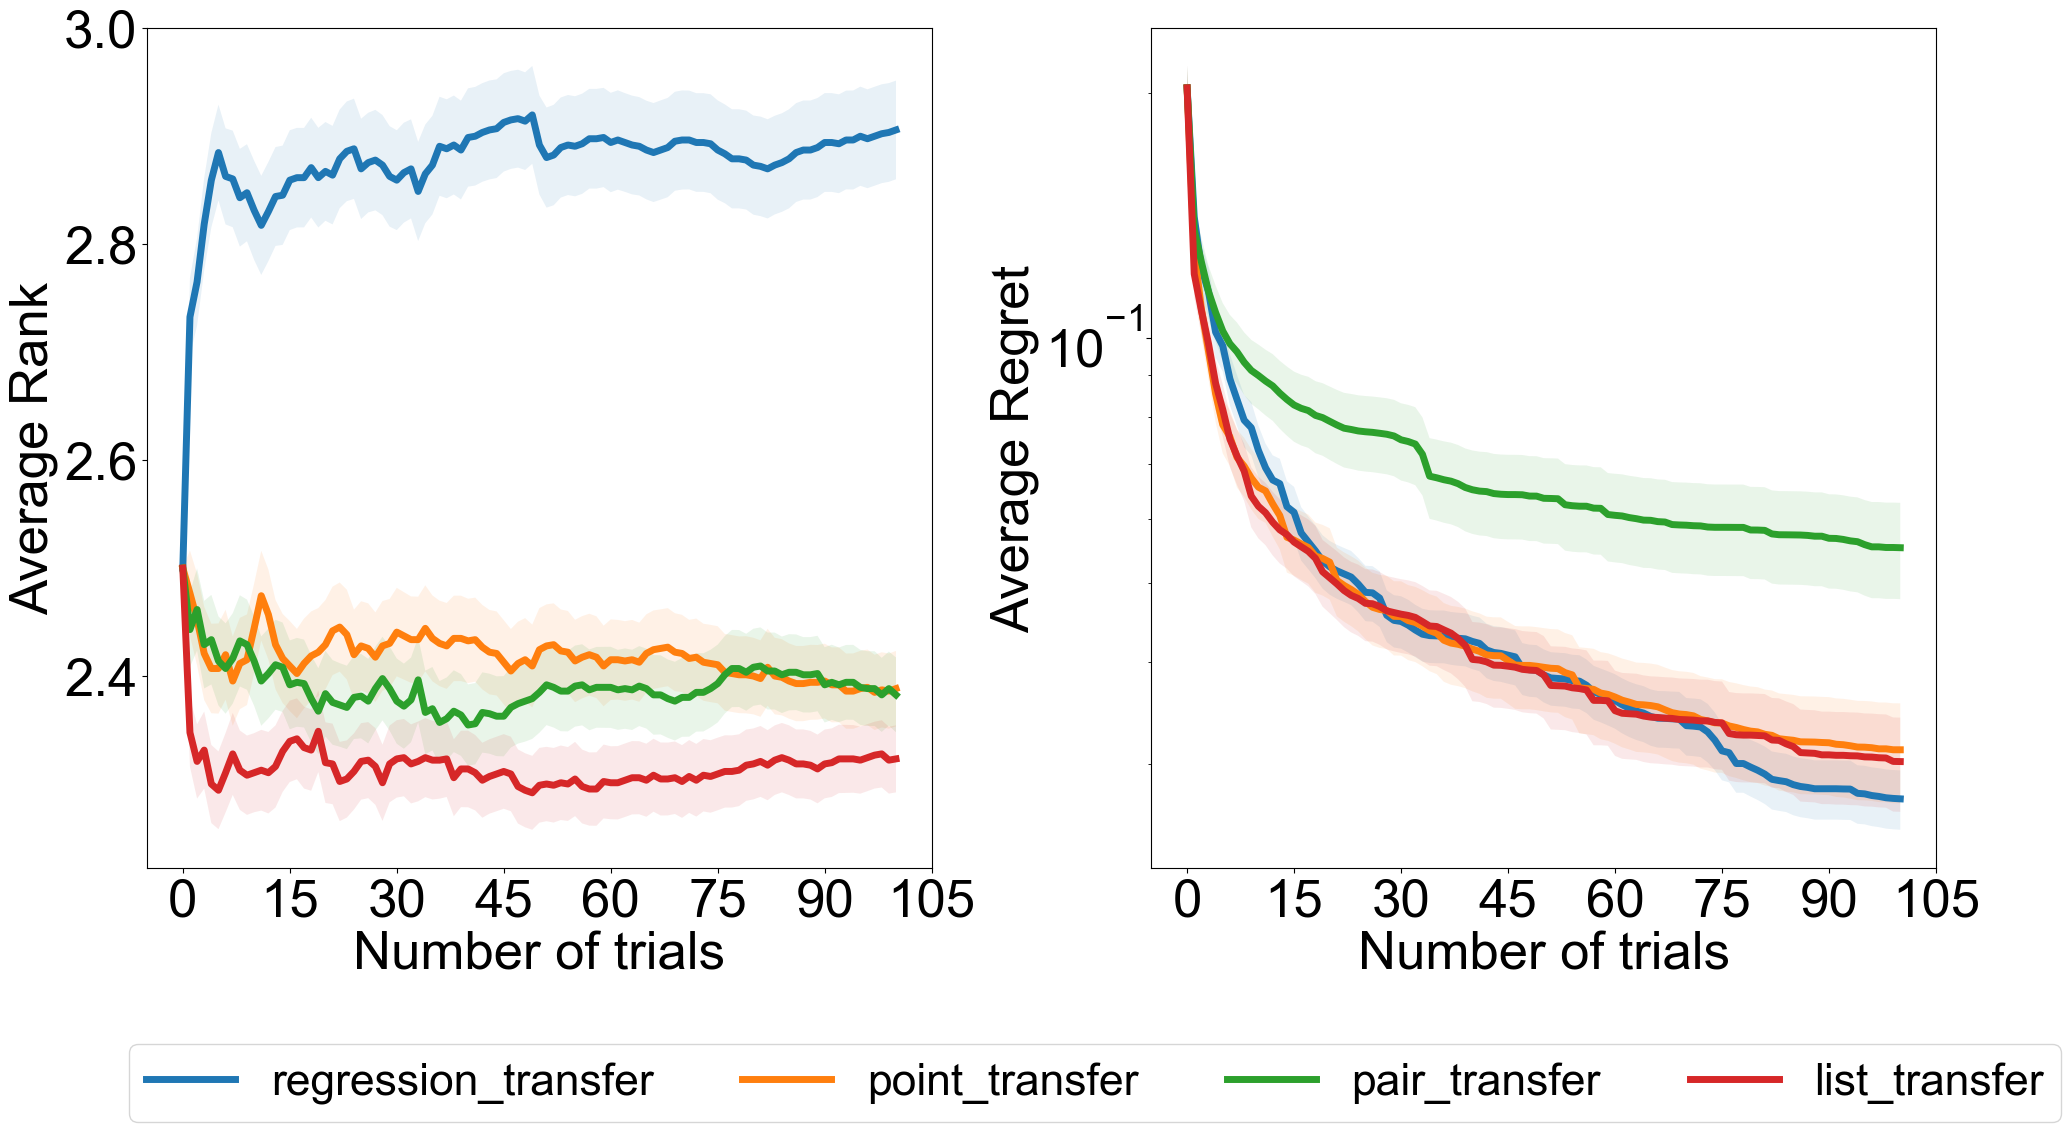
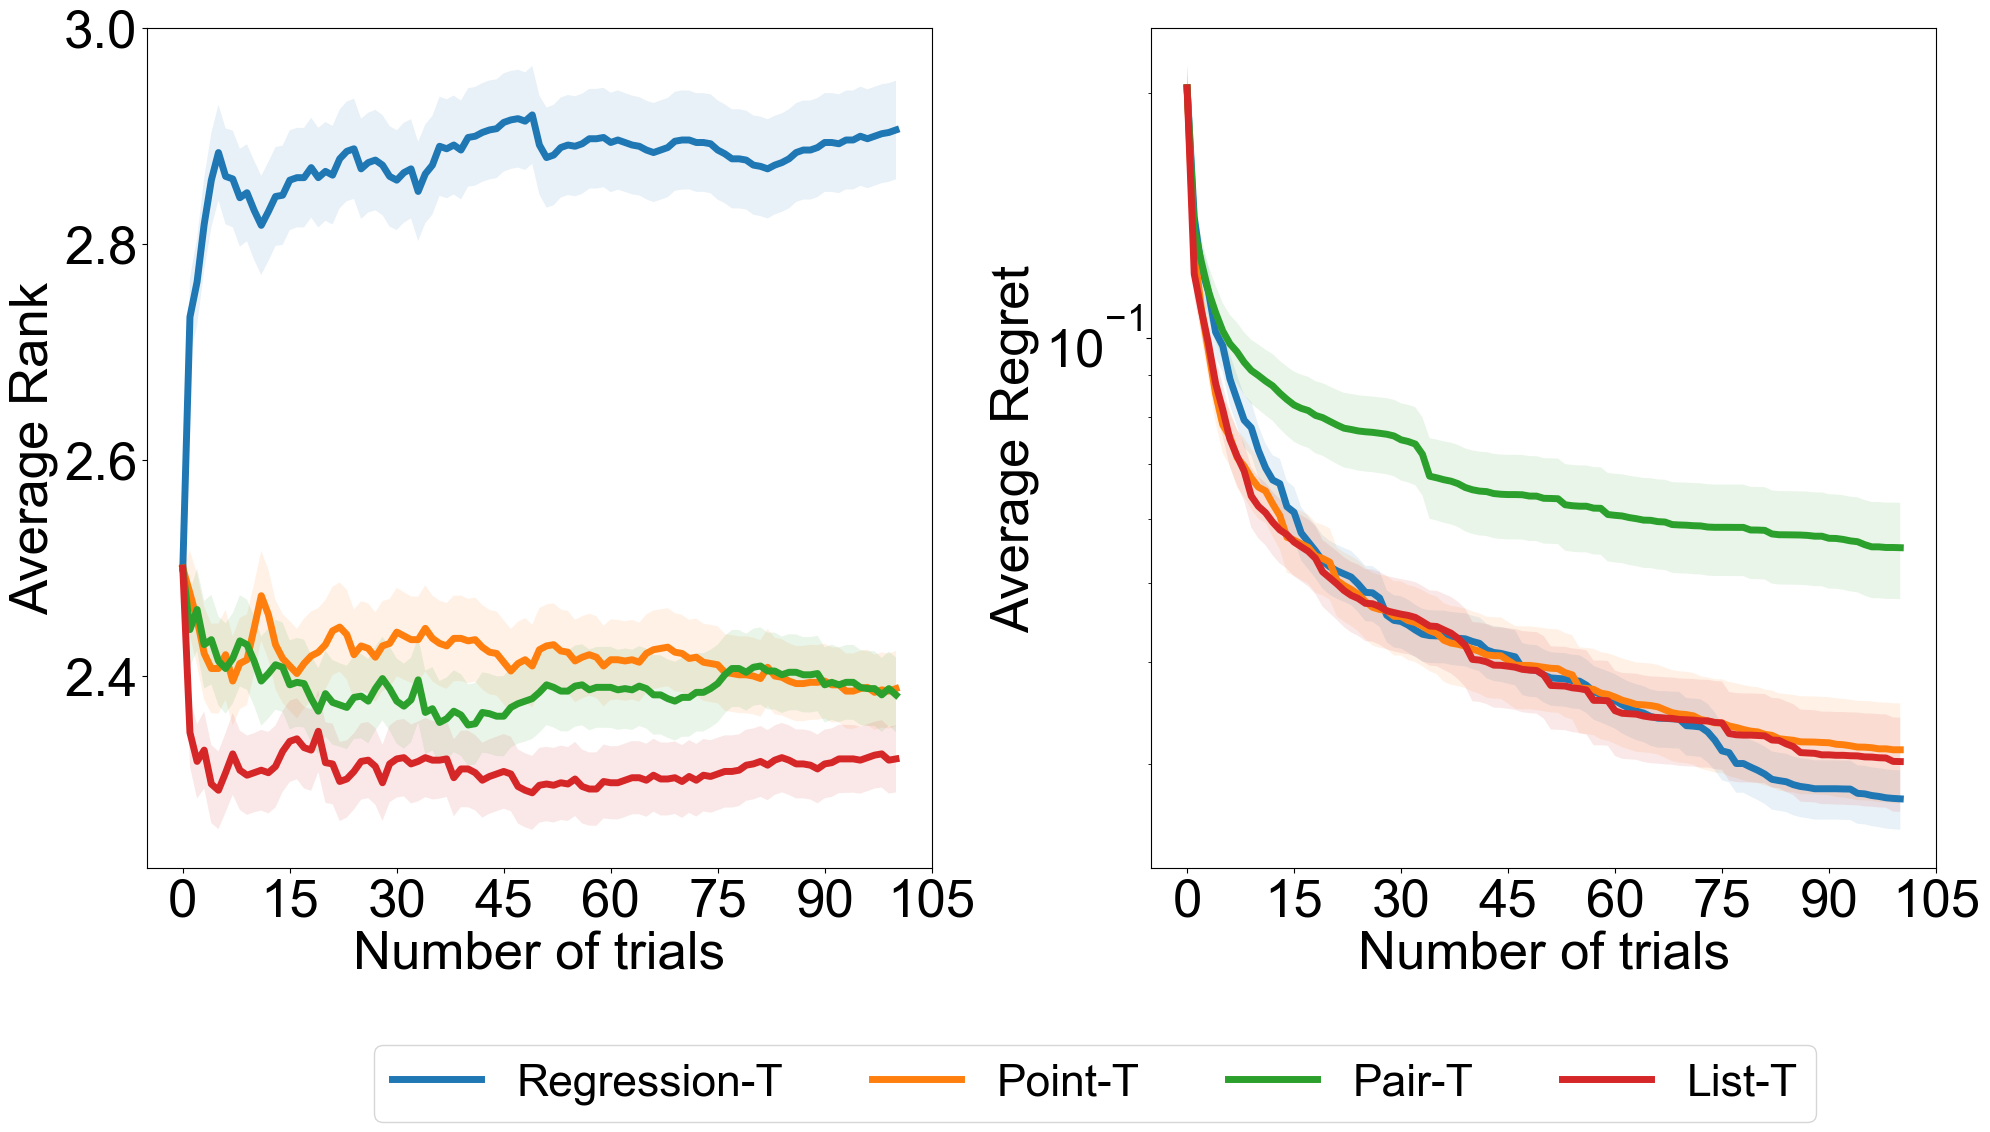
Completing section 5.2.2 corrections.

diff --git a/report/report.tex b/report/report.tex
@@ -2481,16 +2481,17 @@ For any given search space,  we have data on multiple tasks.
 As the distribution of HP configurations may differ for different tasks, we need to learn to rank the HP configurations against other configurations within the same task.
 Hence, for each step within an epoch (i.e., for the number of batches within the epoch),  we randomly select a task (i.e., meta-dataset) and then select the HP configurations within this task.
 This sampling mechanism is the double sampling mechanism we discussed in Section~\ref{sec:rlmetatraining}.
-Double sampling is not required during fine-tuning as we are fine-tuning only for a particular task.
+Double sampling is not required during finetuning as we are finetuning only for a particular task.
 
 \begin{figure}[h]
   \centering
     \includegraphics[scale=0.25]{images/Q1AblationTransfer}
-    \caption{Comparison of Ranking losses with regression losses (Transfer case)}
+    \caption{Comparison of Ranking losses with regression losses (Transfer case).}
     \label{fig:Q1AblationTransfer}
 \end{figure}
 
 Figure~\ref{fig:Q1AblationTransfer} compares the average regret and the ranking graph for the regression and ranking losses for the transfer case.
+The "-T" suffix in the legends signifies that the corresponding plot is for a transfer HPO case.
 As we can see here,  the listwise ranking losses are far superior to other losses.
 It is also interesting to see that the average regret of the list-wise losses is similar to the regression losses in the transfer case.
 To check the overall performance of the list-wise loss models, we compare this model with the worst,  medium, and best performing surrogates as sentinels for the study.
@@ -2501,7 +2502,7 @@ The list-wise loss function functions better than the state-of-the-art transfer 
 \begin{figure}[h]
   \centering
     \includegraphics[scale=0.25]{images/Q1FinalAblation}
-    \caption{Comparison of list-wise transfer with standard HPO surrogates}
+    \caption{Comparison of listwise (transfer) loss with baseline HPO surrogates.}
     \label{fig:Q1FinalAblation}
 \end{figure}
 
@@ -2514,7 +2515,7 @@ We do not separate the transfer and non-transfer cases here.
 We use inverse log weighting for the weighting in our case.
 From Figure~\ref{fig:Q2Ablation}, we see that both in the case of transfer HPO and non-transfer HPO, the weighting positively impacted the performance. Moreover, the models trained with weighted list-wise losses are better at every optimization cycle step.
 
-Even though the difference in the average regret is not significant in the 4 cases,  the ranking graph differences are pretty significant. One thing to note here is that when we use list-wise loss,  we train and fine-tune with the same weighted loss. We do not use a different weighting (like the inverse linear weighting for training and inverse log weighting for the meta training). Moreover, we use the double sampling mechanism discussed above during meta-training.
+Even though the difference in the average regret is not significant in the 4 cases,  the ranking graph differences are pretty significant. One thing to note here is that when we use list-wise loss,  we train and finetune with the same weighted loss. We do not use a different weighting (like the inverse linear weighting for training and inverse log weighting for the meta training). Moreover, we use the double sampling mechanism discussed above during meta-training.
 
 \begin{figure}[h]
   \centering
